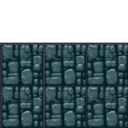
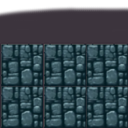
Added light shading to models in the scene

Changed region(s): [[0.0, 0.0312, 1.0, 0.3438]]

diff --git a/web/shader.dart b/web/shader.dart
@@ -1,23 +1,16 @@
 library Shader;
 
-import 'dart:math' as Math;
 import 'dart:web_gl' as webgl;
-import 'dart:typed_data';
 
 import 'package:vector_math/vector_math.dart';
+
+import 'shader_properties.dart';
 
 abstract class Shader
 {
   webgl.Program shader_program_;
-  int a_vertex_pos_;
-  int a_vertex_color_;
-  int a_vertex_coord_;
-  int a_vertex_normal_;
-  webgl.UniformLocation u_m_perspective_;
-  webgl.UniformLocation u_m_modelview_;
-  webgl.UniformLocation u_m_worldview_;
-
   webgl.RenderingContext gl_;
+  List<ShaderProperty> shader_properties_ = new List<ShaderProperty>();
 
   Shader (String vertex_source, String fragment_source, webgl.RenderingContext gl)
   {
@@ -47,58 +40,50 @@ abstract class Shader
     if (!gl.getProgramParameter(shader_program_, webgl.RenderingContext.LINK_STATUS)) {
       print(gl.getProgramInfoLog(shader_program_));
     }
-
-    a_vertex_pos_ = gl.getAttribLocation(shader_program_, "aVertexPosition");
-    gl.enableVertexAttribArray(a_vertex_pos_);
-
-    a_vertex_color_ = gl.getAttribLocation(shader_program_, "aVertexColor");
-    if (a_vertex_color_ >= 0)
-    {
-      gl.enableVertexAttribArray(a_vertex_color_);
-    }
-
-    a_vertex_normal_ = gl.getAttribLocation(shader_program_, "aVertexNormal");
-    if (a_vertex_normal_ >= 0)
-    {
-      gl.enableVertexAttribArray(a_vertex_normal_);
-    }
-
-    a_vertex_coord_ = gl.getAttribLocation(shader_program_, "aTextureCoord");
-    if (a_vertex_coord_ >= 0)
-    {
-      gl.enableVertexAttribArray(a_vertex_coord_);
-    }
-
-    u_m_perspective_ = gl.getUniformLocation(shader_program_, "uPMatrix");
-    u_m_modelview_ = gl.getUniformLocation(shader_program_, "uMVMatrix");
-    u_m_worldview_ = gl.getUniformLocation(shader_program_, "uWVMatrix");
   }
 
-  void setMatrixUniforms(Matrix4 m_perspective_, Matrix4 m_modelview_, Matrix4 m_worldview_)
+  void initProperties()
   {
-    Float32List tmpList = new Float32List(16);
-    m_perspective_.copyIntoArray(tmpList);
-    gl_.uniformMatrix4fv(u_m_perspective_, false, tmpList);
-
-    m_modelview_.copyIntoArray(tmpList);
-    gl_.uniformMatrix4fv(u_m_modelview_, false, tmpList);
-
-    m_worldview_.copyIntoArray(tmpList);
-    gl_.uniformMatrix4fv(u_m_worldview_, false, tmpList);
-  }
-
-  void makeCurrent();
-}
-
-class BasicShader extends Shader
-{
-  BasicShader(String vertex_source, String fragment_source, webgl.RenderingContext gl) : super(vertex_source, fragment_source, gl)
-  {
+    for (ShaderProperty prop in shader_properties_)
+    {
+      prop.init(gl_, shader_program_);
+    }
   }
 
   void makeCurrent()
   {
     gl_.useProgram(shader_program_);
+    for (ShaderProperty prop in shader_properties_)
+    {
+      prop.update(gl_);
+    }
+  }
+
+  ShaderProperty getShaderProperty(String name)
+  {
+    ShaderProperty ret;
+
+    for (ShaderProperty prop in shader_properties_)
+    {
+      if (prop.getName() == name)
+      {
+        ret = prop;
+        break;
+      }
+    }
+
+    return ret;
+  }
+}
+
+class BasicShader extends Shader
+{
+  BasicShaderProperties basic_properties_ = new BasicShaderProperties();
+
+  BasicShader(String vertex_source, String fragment_source, webgl.RenderingContext gl) : super(vertex_source, fragment_source, gl)
+  {
+    shader_properties_.add(basic_properties_);
+    initProperties();
   }
 }
 
@@ -187,33 +172,14 @@ void main(void) {
 
 class AtlasShader extends Shader
 {
-  webgl.UniformLocation size_p_;
-  webgl.UniformLocation offset_p_;
-
-  Vector2 size_;
-  Vector2 offset_;
+  BasicShaderProperties basic_properties_ = new BasicShaderProperties();
+  AtlasTextureProperty atlas_property_ = new AtlasTextureProperty();
 
   AtlasShader(String vertex_source, String fragment_source, webgl.RenderingContext gl) : super(vertex_source, fragment_source, gl)
   {
-    size_p_ = gl_.getUniformLocation(shader_program_, "t_size");
-    offset_p_ = gl_.getUniformLocation(shader_program_, "t_offset");
-  }
-
-  void makeCurrent()
-  {
-    gl_.useProgram(shader_program_);
-    gl_.uniform2f(size_p_, size_.x, size_.y);
-    gl_.uniform2f(offset_p_, offset_.x, offset_.y);
-  }
-
-  void setOffset(Vector2 offset)
-  {
-    offset_ = offset;
-  }
-
-  void setSize(Vector2 size)
-  {
-    size_ = size;
+    shader_properties_.add(basic_properties_);
+    shader_properties_.add(atlas_property_);
+    initProperties();
   }
 }
 
@@ -257,48 +223,18 @@ void main(void) {
 }
 """;
 
-class TerrainShader extends BasicShader
+class LightShader extends Shader
 {
-  webgl.UniformLocation u_v3_directional_dir_;
-  webgl.UniformLocation u_v3_directional_color_;
-  webgl.UniformLocation u_v3_ambient_color_;
-  webgl.UniformLocation u_m_normal_;
-  Vector3 light_dir_;
-  Vector3 ambient_color_ = new Vector3(.0, .0, .0);
-  Vector3 directional_color_ = new Vector3(1.0, 1.0, 1.0);
-  Vector3 directional_dir_ = new Vector3(0.0, -1.0, 0.0);
+  BasicShaderProperties basic_properties_ = new BasicShaderProperties();
+  DirectionalLightShaderProperty light_property_ = new DirectionalLightShaderProperty();
 
-
-  Matrix3 m_normal_ = new Matrix3.identity();
-
-  TerrainShader(String vertex_source, String fragment_source, webgl.RenderingContext gl)
+  LightShader(String vertex_source, String fragment_source, webgl.RenderingContext gl)
     : super(vertex_source, fragment_source, gl)
   {
-    Quaternion directional_rotation = new Quaternion.axisAngle(new Vector3(1.0, 0.0, 0.0), 45.0 * Math.PI / 180);
-    directional_rotation.rotate(directional_dir_);
-    directional_rotation = new Quaternion.axisAngle(new Vector3(0.0, 1.0, 0.0), 45.0 * Math.PI / 180);
-    directional_rotation.rotate(directional_dir_);
-    u_v3_directional_color_ = gl.getUniformLocation(shader_program_, "uDirectionalColor");
-    u_v3_directional_dir_ = gl.getUniformLocation(shader_program_, "uLightingDirection");
-    u_v3_ambient_color_ = gl_.getUniformLocation(shader_program_, "uAmbientLight");
-    u_m_normal_ = gl_.getUniformLocation(shader_program_, "uNMatrix");
-  }
-
-  void setNormalMatrix(Matrix3 normal_mat)
-  {
-    m_normal_ = normal_mat;
-  }
-
-  void makeCurrent()
-  {
-    super.makeCurrent();
-    gl_.uniform3f(u_v3_ambient_color_, ambient_color_.x, ambient_color_.y, ambient_color_.z);
-    gl_.uniform3f(u_v3_directional_color_, directional_color_.x, directional_color_.y, directional_color_.z);
-    gl_.uniform3f(u_v3_directional_dir_, directional_dir_.x, directional_dir_.y, directional_dir_.z);
-    Float32List tmpList = new Float32List(9);
-    m_normal_.copyIntoArray(tmpList);
-    gl_.uniformMatrix3fv(u_m_normal_, false, tmpList);
+    shader_properties_.add(basic_properties_);
+    shader_properties_.add(light_property_);
+    initProperties();
   }
 }
 
-Shader createTerrainShader(webgl.RenderingContext gl) => new TerrainShader(terrain_vs_source, terrain_fs_source, gl);
+Shader createLightShader(webgl.RenderingContext gl) => new LightShader(terrain_vs_source, terrain_fs_source, gl);

diff --git a/web/drawable.dart b/web/drawable.dart
@@ -8,6 +8,7 @@ import 'package:vector_math/vector_math.dart';
 import 'animation.dart';
 import 'texture.dart';
 import 'shader.dart';
+import 'shader_properties.dart';
 
 abstract class Drawable
 {
@@ -47,37 +48,39 @@ class BaseDrawable implements Drawable
 
   void draw(webgl.RenderingContext gl_, Matrix4 world_view, Matrix4 perspective, int dimensions)
   {
-    shader_.makeCurrent();
     Matrix4 m_modelview_ = new Matrix4.identity();
     m_modelview_.translate(position_);
     m_modelview_.setRotation(rotation_.asRotationMatrix());
     m_modelview_.scale(scale_, scale_, scale_);
 
+    BasicShaderProperties basic_property = shader_.getShaderProperty(BasicShaderProperties.propName);
     gl_.bindBuffer(webgl.RenderingContext.ARRAY_BUFFER, pos_buffer_);
-    gl_.vertexAttribPointer(shader_.a_vertex_pos_, dimensions, webgl.RenderingContext.FLOAT, false, 0, 0);
+    gl_.vertexAttribPointer(basic_property.a_vertex_pos_, dimensions, webgl.RenderingContext.FLOAT, false, 0, 0);
     if(color_buffer_ != null)
     {
       gl_.bindBuffer(webgl.RenderingContext.ARRAY_BUFFER, color_buffer_);
-      gl_.vertexAttribPointer(shader_.a_vertex_color_, 4, webgl.RenderingContext.FLOAT, false, 0, 0);
+      gl_.vertexAttribPointer(basic_property.a_vertex_color_, 4, webgl.RenderingContext.FLOAT, false, 0, 0);
     }
     if(tex_buffer_ != null)
     {
       tex_[tex_cur_ind_].makeCurrent();
       gl_.bindBuffer(webgl.RenderingContext.ARRAY_BUFFER, tex_buffer_);
-      gl_.vertexAttribPointer(shader_.a_vertex_coord_, 2, webgl.RenderingContext.FLOAT, false, 0, 0);
+      gl_.vertexAttribPointer(basic_property.a_vertex_coord_, 2, webgl.RenderingContext.FLOAT, false, 0, 0);
     }
     if(nor_buffer_ != null)
     {
       gl_.bindBuffer(webgl.RenderingContext.ARRAY_BUFFER, nor_buffer_);
-      gl_.vertexAttribPointer(shader_.a_vertex_normal_, dimensions, webgl.RenderingContext.FLOAT, false, 0, 0);
+      gl_.vertexAttribPointer(basic_property.a_vertex_normal_, dimensions, webgl.RenderingContext.FLOAT, false, 0, 0);
     }
 
     gl_.bindBuffer(webgl.RenderingContext.ELEMENT_ARRAY_BUFFER, ind_buffer_);
 
-    shader_.setMatrixUniforms(perspective, m_modelview_, world_view);
-    if (shader_ is TerrainShader)
+    basic_property.setMatrixUniforms(perspective, m_modelview_, world_view);
+
+    DirectionalLightShaderProperty directional_property = shader_.getShaderProperty(DirectionalLightShaderProperty.propName);
+    if (directional_property != null)
     {
-      TerrainShader t_shader = shader_;
+      LightShader t_shader = shader_;
       Matrix3 m_normal = new Matrix3.identity();
 
       m_normal.setRow(0, m_modelview_.row0.xyz);
@@ -86,8 +89,9 @@ class BaseDrawable implements Drawable
       m_normal.invert();
       m_normal.transpose();
 
-      t_shader.setNormalMatrix(m_normal);
+      directional_property.setNormalMatrix(m_normal);
     }
+    shader_.makeCurrent();
     gl_.drawElements(webgl.RenderingContext.TRIANGLES, vertices_, webgl.RenderingContext.UNSIGNED_SHORT, 0);
   }
 
@@ -229,7 +233,11 @@ class AnimatedDrawable extends BaseDrawable
     Vector2 offset = new Vector2(x/num_images_side_, y/num_images_side_);
     Vector2 size = new Vector2(1/num_images_side_, 1/num_images_side_);
 
-    shader_.setOffset(offset);
-    shader_.setSize(size);
+    AtlasTextureProperty atlas_prop = shader_.getShaderProperty(AtlasTextureProperty.propName);
+    if(atlas_prop != null)
+    {
+      atlas_prop.setOffset(offset);
+      atlas_prop.setSize(size);
+    }
   }
 }

diff --git a/web/drawable_factory.dart b/web/drawable_factory.dart
@@ -62,7 +62,14 @@ class DrawableFactory
     BaseDrawable ret = new BaseDrawable();
     initGeometry(geometry, ret);
     initTexture(geometry, ret);
-    ret.shader_ = renderer_.texture_shader_;
+    if (geometry.orientation_ == null)
+    {
+      ret.shader_ = renderer_.texture_shader_;
+    }
+    else
+    {
+      ret.shader_ = renderer_.light_shader_;
+    }
 
     return ret;
   }
@@ -72,7 +79,7 @@ class DrawableFactory
     BaseDrawable ret = new BaseDrawable();
     initGeometry(geometry, ret);
     initTexture(geometry, ret);
-    ret.shader_ = renderer_.terrain_shader_;
+    ret.shader_ = renderer_.light_shader_;
 
     return ret;
   }

diff --git a/web/model_importer.dart b/web/model_importer.dart
@@ -23,8 +23,9 @@ class ModelImporter extends AsyncImporter<List<BaseGeometry>>
       String texture = materials[mesh['material_index']];
       List<double> positions = mesh['vertices'][0];
       List<double> textures = mesh['vertices'][1];
+      List<double> orientation = mesh['vertices'][2];
       List<int> indices = mesh['indices'];
-      BaseGeometry geom = new TexturedGeometry(positions, null, indices, textures, texture);
+      BaseGeometry geom = new TexturedGeometry(positions, orientation, indices, textures, texture);
       ret.add(geom);
     }
 

diff --git a/web/renderer.dart b/web/renderer.dart
@@ -26,7 +26,7 @@ class Renderer
 
   Shader color_shader_;
   Shader texture_shader_;
-  Shader terrain_shader_;
+  Shader light_shader_;
   Shader atlas_shader_;
 
   Camera camera_;
@@ -44,7 +44,7 @@ class Renderer
     gl_ = canvas_.getContext('experimental-webgl');
     color_shader_ = createColorShader(gl_);
     texture_shader_ = createTextureShader(gl_);
-    terrain_shader_ = createTerrainShader(gl_);
+    light_shader_ = createLightShader(gl_);
     atlas_shader_ = createAtlasShader(gl_);
     m_worldview_ = new Matrix4.identity();
 

diff --git a/resource/main.cpp b/resource/main.cpp
@@ -116,6 +116,7 @@ int main(int argc, char** argv)
 				{
 					vector<float> vertices;
 					vector<float> textures;
+					vector<float> normals;
 					for (int j = 0; j < mesh->mNumVertices; j++)
 					{
 						vertices.push_back(mesh->mVertices[j].x);
@@ -125,6 +126,12 @@ int main(int argc, char** argv)
 						{
 							textures.push_back(mesh->mTextureCoords[0][j].x);
 							textures.push_back(mesh->mTextureCoords[0][j].y);
+						}
+						if (mesh->HasNormals())
+						{
+							normals.push_back(mesh->mNormals[j].x);
+							normals.push_back(mesh->mNormals[j].y);
+							normals.push_back(mesh->mNormals[j].z);
 						}
 					}
 					std::cout << std::setprecision(4) << std::fixed;
@@ -155,6 +162,21 @@ int main(int argc, char** argv)
 								 cout << ", ";
 							}
 							cout << textures[j];
+						}
+						cout << endl;
+					}
+					cout << ",";
+					{
+						JsonArray json_normals(id);
+						cout << id;
+		
+						for (unsigned int j = 0; j < normals.size(); j++)
+						{
+							if (j != 0)
+							{
+								 cout << ", ";
+							}
+							cout << normals[j];
 						}
 						cout << endl;
 					}
